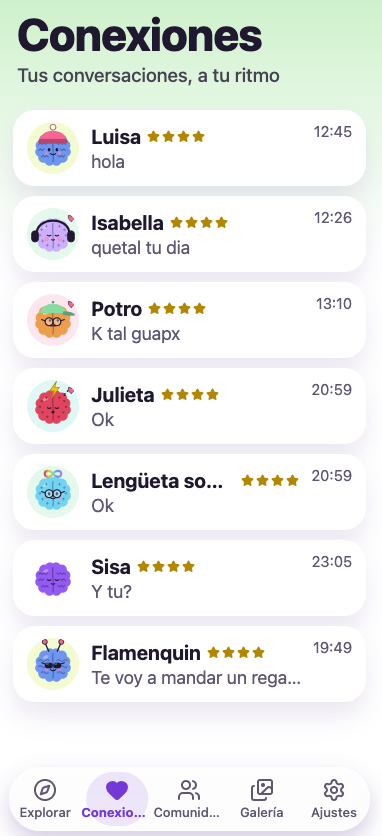
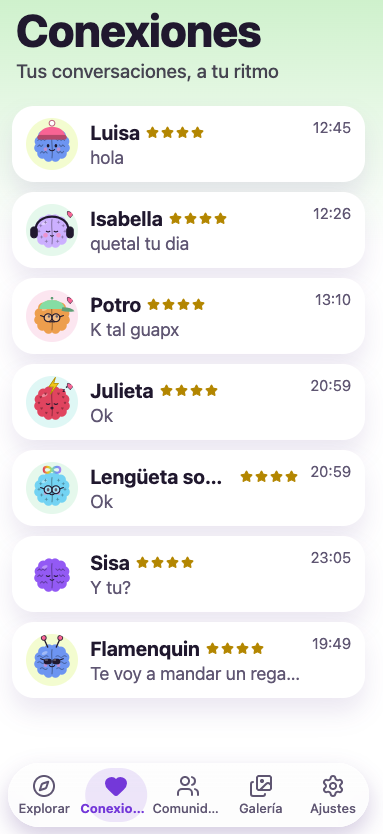
fix(projects): replace Neurodate connections screenshot

diff --git a/src/app/projects.tsx b/src/app/projects.tsx
@@ -56,7 +56,7 @@ export const projects: Project[] = [
       { src: "/imagenes/neurodate/neurodate-app-bienvenida.png", alt: "Pantalla de bienvenida de NeuroDate: conexiones auténticas, sin filtros superficiales", width: 386, height: 847, label: "bienvenida" },
       { src: "/imagenes/neurodate/neurodate-app-explorar.png", alt: "Explorar en NeuroDate: tarjeta de perfil con avatar, intereses y valores", width: 384, height: 838, label: "explorar" },
       { src: "/imagenes/neurodate/neurodate-app-perfil.png", alt: "Tarjeta de perfil en NeuroDate con identidad, distancia aproximada, intereses y valores", width: 382, height: 837, label: "perfil" },
-      { src: "/imagenes/neurodate/neurodate-app-conexiones.png", alt: "Conexiones de NeuroDate con las conversaciones y sus estrellas", width: 382, height: 836, label: "conexiones" },
+      { src: "/imagenes/neurodate/neurodate-app-conexiones.png", alt: "Conexiones de NeuroDate con las conversaciones y sus estrellas", width: 383, height: 834, label: "conexiones" },
       { src: "/imagenes/neurodate/neurodate-app-chat-galeria.png", alt: "Chat de NeuroDate avisando de que la galería completa se ha desbloqueado", width: 384, height: 839, label: "galería desbloqueada" },
       { src: "/imagenes/neurodate/neurodate-app-galeria.png", alt: "Galería de NeuroDate con las fotos que se desbloquean por estrellas", width: 385, height: 834, label: "galería" },
       { src: "/imagenes/neurodate/neurodate-app-comunidades.png", alt: "Comunidades de NeuroDate recomendadas por Claude según tus intereses", width: 383, height: 834, label: "comunidades" },
